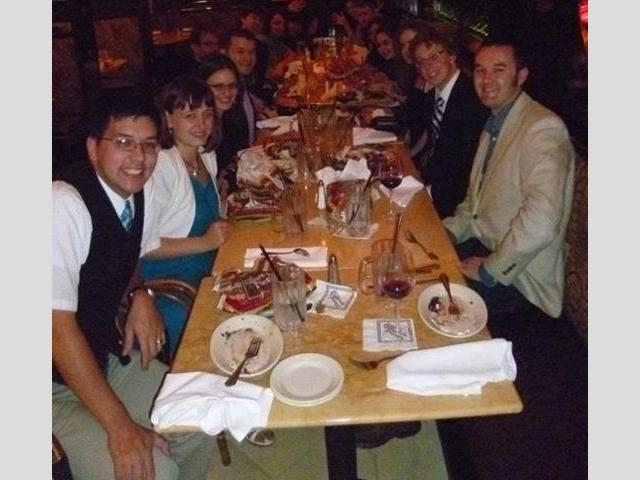
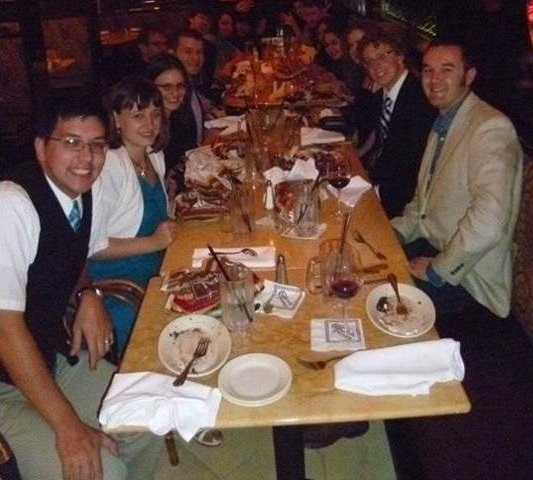
Center & resize carroussel images

diff --git a/jquery.infinitecarousel3.js b/jquery.infinitecarousel3.js
@@ -13,6 +13,8 @@
 		{
 			var defaults = 
 			{
+				wi: 640,
+				he: 480,
 				transitionSpeed: 800,
 				displayTime: 6000,
 				displayProgressRing: true,
@@ -49,11 +51,13 @@
 				var captions=[];				// captions array
 				var links=[];					// links array
 				var itemSources=[];				// sources array
-				var imWidth=[], imHeight=[];	//the width and height of the images
 				var vidThumb=[];				// video thumbnails (supplied by the longdesc attribute in the iframe)
-				var widthSource,heightSource;		// width and height of each item
+				//var widthSource,heightSource;		// width and height of each item
 				var nextLeft,nextRight;			// pointers to the next array index for moving left and right
 				var clrTimerInterval;			// interval handle variable for timer and autoPilot
+				
+				var imW=[];
+				var imH=[];
 								
 				var u,elapsedTime=0;
 				var canvasSupported = "HTMLCanvasElement" in window;
@@ -62,6 +66,10 @@
 					links.push( $('a',this).attr('href') );
 					vidThumb.push( $(this).find('iframe').attr('longdesc') );
 					itemSources.push( $(this).find('img, iframe').attr('src') ); // finds images and youtube and vimeo iframe sources
+					
+					var img = $(this).find('img'); 
+					imW.push(img.width());
+					imH.push(img.height());
 				});
 
 				// Check for improper values in inview and advance
@@ -69,34 +77,44 @@
 				if(o.advance > o.inView) o.advance = o.inView; // Prevent advancing more than inView images at a time
 
 				// Dimensions should be set explicitly on the items so that we don't have to defer loading code until the images are loaded
-				widthSource = $(this).find('img, iframe').width();
-				heightSource = $(this).find('img, iframe').height();
+				//widthSource = $(this).find('img, iframe').width();
+				//heightSource = $(this).find('img, iframe').height();
 
 				// Build carousel container
 				$(obj).replaceWith('<div class="infiniteCarousel" id="ic_'+randID+'">'); // Kick the list and its content to the curb and replace with a div
 				obj=$('#ic_'+randID); // Reassign the new div as our obj
-				$(obj).height(heightSource).width(widthSource*o.inView).css({'overflow':'hidden','position':'relative'});
+				$(obj).height(o.he).width(o.wi*o.inView).css({'overflow':'hidden','position':'relative'});
 
 				// Build tray to hold items and populate with item container divs. Move tray one item width to the left.
-				$(obj).append('<div class="ic_tray" style="position:relative;width:'+(numItems*2)*widthSource+'px;left:-'+widthSource+'px">');
-				for(var i=0;i<numItems;i++) $('div.ic_tray',obj).append('<div style="overflow:hidden;background:url('+o.imagePath+'wait.gif) no-repeat scroll 50% 50%;float:left;position:relative;width:'+widthSource+'px;height:'+heightSource+'px;" class="infiniteCarousel_item">');
+				$(obj).append('<div class="ic_tray" style="position:relative;width:'+(numItems*2)*o.wi+'px;left:-'+o.wi+'px">');
+				for(var i=0;i<numItems;i++) $('div.ic_tray',obj).append('<div style="overflow:hidden;background:url('+o.imagePath+'wait.gif) no-repeat scroll 50% 50%;float:left;position:relative;width:'+o.wi+'px;height:'+o.he+'px;" class="infiniteCarousel_item">');
 
 				// Populate the individual tray divs with items. Add links and captions where available.
 				$('.infiniteCarousel_item',obj).each(function(index){
 					if(itemSources[index].indexOf('youtube.com') > 0 || itemSources[index].indexOf('vimeo.com') > 0 || itemSources[index].indexOf('funnyordie.com') > 0)
 					{
 						var querystring = itemSources[index].split("?"); // Need to disassemble and reassemble any querystring parameters so that we can append wmode=opaque as first parameter (see http://stackoverflow.com/questions/3820325/overlay-opaque-div-over-youtube-iframe)
-						$(this).append('<iframe src="'+querystring[0]+"?wmode=opaque&"+querystring[1]+'" frameborder="0" allowfullscreen="" style="width: '+widthSource+'px; height: '+heightSource+'px">" />');
+						$(this).append('<iframe src="'+querystring[0]+"?wmode=opaque&"+querystring[1]+'" frameborder="0" allowfullscreen="" style="width: '+o.wi+'px; height: '+o.he+'px">" />');
 						if(links[index]!=undefined) $('iframe',this).wrap('<a class="ic_link" href="'+links[index]+'"></a>'); // IE8 needs the </a>. see http://outwardfocusdesign.com/blog/web-design-professionals/jquery/possible-fix-for-jquerys-wrap-function-for-ie8/
 					}
 					else
 					{
-						////compensate for padding!!!!
-						//var image = $(this);
-						//if (image.width() < 75) {
-						//	image.css('padding-left', ((75 - image.width()) / 2)); 
-						//}
-						$(this).append('<img src="'+itemSources[index]+'" />');
+						//resize the image down to within [o.wi x o.he] and center it both horizontally and vertically
+						var w=imW[index],h=imH[index],mL=0,mT=0;
+						if(w>o.wi){
+							w=o.wi; h=1.0*o.wi*imH[index]/imW[index];
+						}
+						if(h>o.he){
+							h=o.he; w=1.0*o.he*imW[index]/imH[index];
+						}
+						if(w<o.wi){
+							mL=(o.wi-w)/2;
+						}
+						if(h<o.he){
+							mT=(o.he-h)/2;
+						}
+						
+						$(this).append('<img src="'+itemSources[index]+'" width="'+w+'px" height="'+h+'px" style="margin-left: '+mL+'px; margin-top: '+mT+'px;"/>');
 						if(links[index]!=undefined) $('img',this).wrap('<a class="ic_link" href="'+links[index]+'"></a>'); // IE8 needs the </a>. see http://outwardfocusdesign.com/blog/web-design-professionals/jquery/possible-fix-for-jquerys-wrap-function-for-ie8/
 					}
 					if(captions[index]!=undefined) $(this).append('<div class="ic_caption" style="position:absolute;bottom:0;">'+captions[index]+'</div>');
@@ -116,7 +134,7 @@
 				}
 
 				// Build left/right nav
-				$(obj).append('<div class="ic_left_nav" style="position:absolute;left:0;width:32px;top:'+(heightSource/2-16)+'px;">').append('<div class="ic_right_nav" style="position:absolute;width:32px;right:0;top:'+(heightSource/2-16)+'px;">');
+				$(obj).append('<div class="ic_left_nav" style="position:absolute;left:0;width:32px;top:'+(o.he/2-16)+'px;">').append('<div class="ic_right_nav" style="position:absolute;width:32px;right:0;top:'+(o.he/2-16)+'px;">');
 				$('.ic_left_nav',obj).append('<img style="cursor:pointer;" src="'+o.imagePath+'left.png" />');
 				$('.ic_right_nav',obj).append('<img style="cursor:pointer;" src="'+o.imagePath+'right.png" />');
 				if( !o.prevNextInternal && ( parseInt( $(obj).css('border-left-width') ) + parseInt( $(obj).css('border-right-width') ) ) > 0) $('.ic_right_nav',obj).css('right','-'+(parseInt( $(obj).css('border-left-width') ) + parseInt( $(obj).css('border-right-width') ) )+'px'); // adjust right nav of margin, external nav, and a border exist
@@ -279,7 +297,7 @@
 				} else { $(obj).append('<div id="ic_ie_timer_'+randID+'" style="width:100%;height:6px;position:absolute;bottom:0;left:0;background:#ccc"></div>');$('#ic_ie_timer_'+randID).css('opacity','.25') }
 				function hideCaptions()
 				{
-					if(o.autoHideCaptions) $('.ic_caption',obj).stop().animate({bottom:-heightSource+'px'});
+					if(o.autoHideCaptions) $('.ic_caption',obj).stop().animate({bottom:-o.he+'px'});
 				}
 				function showCaptions()
 				{
@@ -304,8 +322,8 @@
 					o.onSlideStart.call(this);
 					$('.ic_button',thumbTopParent).removeClass('ic_active');
 					$('.infiniteCarousel_item',obj).slice(-dist).prependTo('#ic_'+randID+' .ic_tray',obj);
-					$('.ic_tray',obj).css({left:'-='+(widthSource*dist)+'px'});
-					$('.ic_tray',obj).stop().animate({left:"+="+widthSource*dist+"px"},o.transitionSpeed,o.easeRight,function(){
+					$('.ic_tray',obj).css({left:'-='+(o.wi*dist)+'px'});
+					$('.ic_tray',obj).stop().animate({left:"+="+o.wi*dist+"px"},o.transitionSpeed,o.easeRight,function(){
 						showCaptions();
 						manageThumbButtons();
 						o.onSlideEnd.call(this);
@@ -316,9 +334,9 @@
 				{
 					o.onSlideStart.call(this);
 					$('.ic_button',thumbTopParent).removeClass('ic_active');
-					$('.ic_tray',obj).stop().animate({left:"-="+(widthSource+o.margin)*dist+"px"},o.transitionSpeed,o.easeLeft,function(){
+					$('.ic_tray',obj).stop().animate({left:"-="+(o.wi+o.margin)*dist+"px"},o.transitionSpeed,o.easeLeft,function(){
 						$('.infiniteCarousel_item',obj).slice(0,dist).appendTo('#ic_'+randID+' .ic_tray',obj);
-						$('.ic_tray',obj).css({left:'-'+(widthSource+o.margin)+'px'});
+						$('.ic_tray',obj).css({left:'-'+(o.wi+o.margin)+'px'});
 						showCaptions();
 						manageThumbButtons();
 						o.onSlideEnd.call(this);

diff --git a/personal_pictures.html b/personal_pictures.html
@@ -155,10 +155,10 @@ $(function(){
         <li><img src="extras/pictures/halloween12.jpg" /><p><b>2012: </b> Saint Louis - Halloween.</p></li>
         <li><img src="extras/pictures/lab12.jpg" /><p><b>2012: </b> Saint Louis - Lab picture.</p></li>
 		
+        <li><img src="extras/pictures/fancy11.jpg" /><p><b>2011: </b> Saint Louis - First graduate student group dinner.</p></li>
         <li><img src="extras/pictures/graduation11_1.jpg" /><p><b>2011: </b> Graduation from Bard College.</p></li>
         <li><img src="extras/pictures/graduation11_2.jpg" /><p><b>2011: </b> Graduation from Bard College.</p></li>
         <li><img src="extras/pictures/graduation11_3.jpg" /><p><b>2011: </b> Graduation from Bard College.</p></li>
-        <li><img src="extras/pictures/fancy11.jpg" /><p><b>2011: </b> Saint Louis - First graduate student group dinner.</p></li>
     </ul>
 
 </div><!--info-->
